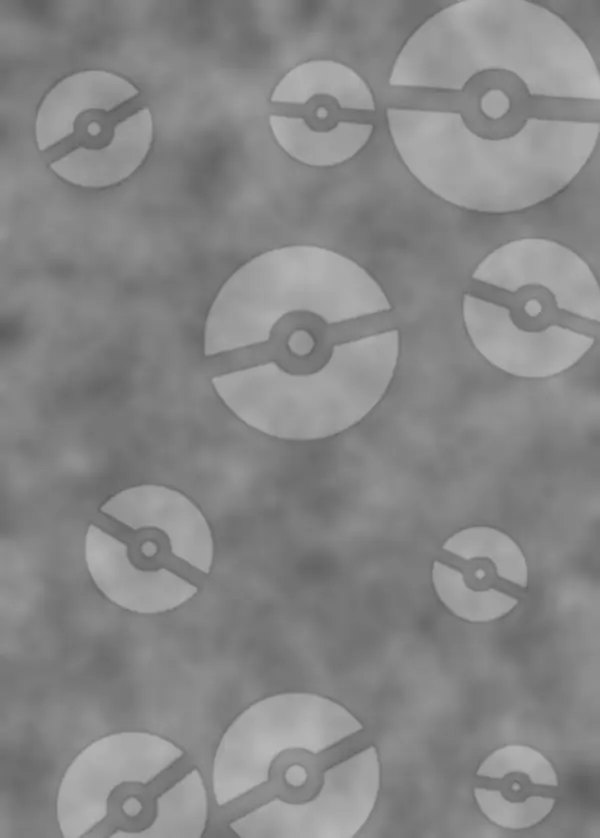
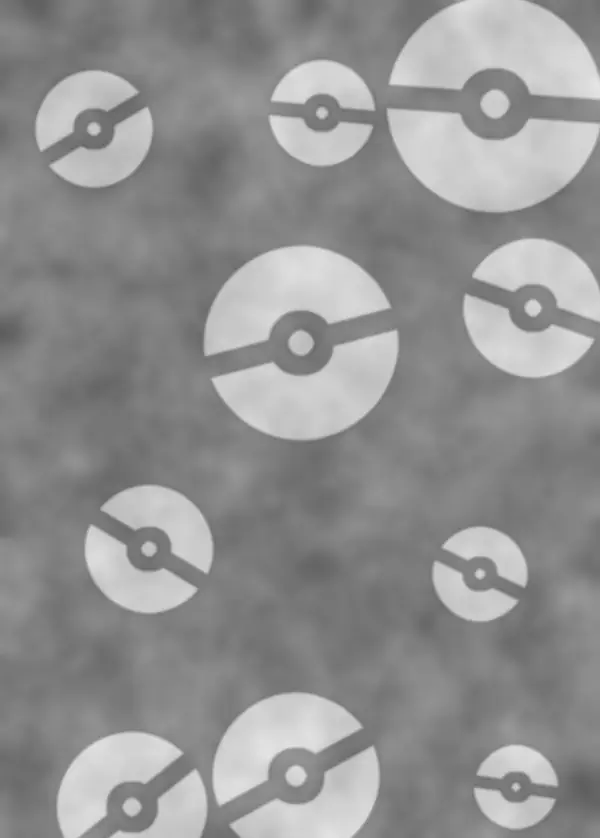
XY f1: holo fallback ids, reverse tiles tuned, dark-body symbol light

diff --git a/css/holo/xy.css b/css/holo/xy.css
@@ -152,16 +152,16 @@ body.fx-holo.fx-holo.fx-holo .tcg.era-xy.era-xy.era-xy.era-xy.era-xy.xy-starligh
 body.fx-holo.fx-holo.fx-holo .tcg.era-xy.era-xy.era-xy.era-xy.era-xy.foil-reverse.xy-rev .foil {
   background-image:
     var(--rev-pattern),
-    linear-gradient(-50deg, hsl(0, 0%, 10%) 20%, hsl(190, 80%, 70%) 34%, hsl(120, 70%, 70%) 42%, hsl(50, 90%, 72%) 50%, hsl(330, 80%, 72%) 58%, hsl(0, 0%, 10%) 74%),
-    radial-gradient(farthest-corner circle at var(--pointer-x) var(--pointer-y), hsl(0, 0%, 100%) 0%, hsl(0, 0%, 55%) 35%, hsl(0, 0%, 30%) 100%);
+    linear-gradient(-50deg, hsl(0, 0%, 62%) 14%, hsl(190, 80%, 82%) 32%, hsl(120, 70%, 80%) 42%, hsl(50, 90%, 84%) 50%, hsl(330, 80%, 84%) 58%, hsl(0, 0%, 62%) 78%),
+    radial-gradient(farthest-corner circle at var(--pointer-x) var(--pointer-y), hsl(0, 0%, 100%) 0%, hsl(0, 0%, 78%) 35%, hsl(0, 0%, 56%) 100%);
   background-size: 100% 100%, 260% 260%, 100% 100%;
   background-position:
     center,
     clamp(0%, calc(100% * var(--pointer-from-left)), 100%) clamp(0%, calc(100% * var(--pointer-from-top)), 100%),
     center;
   background-repeat: no-repeat;
-  background-blend-mode: multiply, screen, normal;
-  filter: brightness(0.62) contrast(1.35) saturate(1.2) contrast(0.8);
+  background-blend-mode: multiply, multiply, normal;
+  filter: brightness(1.05) contrast(2) saturate(1.2) contrast(0.8);
   mix-blend-mode: color-dodge;
   opacity: calc((0.45 + var(--card-opacity) * 0.55) * var(--foil-strength, 1));
   -webkit-mask-image: var(--art), var(--xy-win);
@@ -180,9 +180,18 @@ body.fx-holo.fx-holo.fx-holo .tcg.era-xy.era-xy.era-xy.era-xy.era-xy.foil-revers
 body.fx-holo.fx-holo.fx-holo .tcg.era-xy.era-xy.era-xy.era-xy.era-xy.foil-reverse.xy-rev:not(.lit):not(.settling) .foil {
   opacity: calc(0.42 * var(--foil-strength, 1));
 }
-body.fx-holo.fx-holo.fx-holo .tcg.era-xy.era-xy.era-xy.era-xy.era-xy.foil-reverse.xy-rev .foil::before,
-body.fx-holo.fx-holo.fx-holo .tcg.era-xy.era-xy.era-xy.era-xy.era-xy.foil-reverse.xy-rev .foil::after {
+body.fx-holo.fx-holo.fx-holo .tcg.era-xy.era-xy.era-xy.era-xy.era-xy.foil-reverse.xy-rev .foil::before {
   background-image: none;
+}
+/* A dark body (Darkness, Metal) is black to a colour-dodge: the symbols are screened on as light too. */
+body.fx-holo.fx-holo.fx-holo .tcg.era-xy.era-xy.era-xy.era-xy.era-xy.foil-reverse.xy-rev .foil::after {
+  background-image: var(--rev-pattern);
+  background-size: 100% 100%;
+  background-position: center;
+  background-repeat: no-repeat;
+  mix-blend-mode: screen;
+  filter: brightness(0.55) contrast(3.5);
+  opacity: calc(0.35 + var(--pointer-from-center) * 0.4);
 }
 /* Basic Energy: a full picture, foil from under the name bar to above the footer. */
 body.fx-holo.fx-holo.fx-holo .tcg.era-xy.era-xy.era-xy.era-xy.era-xy.foil-reverse.xy-rev-energy .foil {

diff --git a/js/xy-foil.js b/js/xy-foil.js
@@ -93,7 +93,7 @@ export function xyPattern(card) {
     case "Rare":
       // The plain Rare is not foil at all, except the 13 holo rares Evolutions
       // files as "Rare" (xyHoloPattern).
-      pattern = XY12_HOLO.has(card.id) ? xyHoloPattern(card) : "foil-none";
+      pattern = XY_HOLO_IDS.has(card.id) ? xyHoloPattern(card) : "foil-none";
       break;
     default:
       break;
@@ -123,8 +123,19 @@ export function xyReverseFinish(card) {
  * Pokémon included), not the cosmos of earlier eras; Evolutions (xy12) is the "Starlight" star field.
  */
 
-/** Evolutions files its 13 holo rares as "Rare" (pkmn.gg folds them); cardmavin and Collexy list these as Rare Holo. */
-const XY12_HOLO = new Set(["11", "15", "25", "34", "36", "38", "42", "45", "53", "59", "62", "63", "70"].map((n) => `xy12-${n}`));
+/**
+ * Holo rares the builders' data files as plain "Rare" (pkmn.gg folds them in xy4, xy5, xy11, xy12, dc1): the numbers
+ * pokemontcg.io lists as "Rare Holo" for those sets (xy12 agrees with cardmavin's list). Drop an entry once
+ * the data says "Rare Holo".
+ */
+const XY_HOLO_FALLBACK = {
+  xy4: "12 17 30 43 45 50 63 69 71 74 77 86 97 98",
+  xy5: "9 12 28 36 44 50 56 61 65 77 80 88 92 97 100 104 108 110",
+  xy11: "11 20 40 50 64 65 73 81 86",
+  xy12: "11 15 25 34 36 38 42 45 53 59 62 63 70",
+  dc1: "2 5 8 11 14 21"
+};
+const XY_HOLO_IDS = new Set(Object.entries(XY_HOLO_FALLBACK).flatMap(([set, nums]) => nums.split(" ").map((n) => `${set}-${n}`)));
 
 const isEvolutions = (card) => /^xy12-/.test(String(card?.id || ""));
 

diff --git a/index.html b/index.html
@@ -89,7 +89,7 @@
     <link rel="stylesheet" href="css/holo/sm-gx.css?v=5" />
     <link rel="stylesheet" href="css/holo/sm-fullart.css?v=4" />
     <link rel="stylesheet" href="css/holo/sm-shiny.css?v=3" />
-    <link rel="stylesheet" href="css/holo/xy.css?v=1" />
+    <link rel="stylesheet" href="css/holo/xy.css?v=2" />
     <link rel="stylesheet" href="css/holo/xy-ex.css?v=1" />
     <link rel="stylesheet" href="css/holo/xy-fullart.css?v=1" />
     <link rel="stylesheet" href="css/holo/sleeves.css?v=1" />

diff --git a/js/foil-maps.js b/js/foil-maps.js
@@ -24,7 +24,7 @@
 
 import { isSm, smGxMap, smPattern, smReverseFinish, smSafeMap, SM_FULL_ART, SM_ETCHED } from "./sm-foil.js?v=8";
 
-import { isXy, xyMap, xyPattern, xyReverseExtras, xyReverseFinish, XY_FULL_ART, XY_ETCHED } from "./xy-foil.js?v=1";
+import { isXy, xyMap, xyPattern, xyReverseExtras, xyReverseFinish, XY_FULL_ART, XY_ETCHED } from "./xy-foil.js?v=2";
 
 export { isSm, smPattern, isXy, xyPattern };
 

diff --git a/js/app.js b/js/app.js
@@ -1,5 +1,5 @@
 import { createCardMotion } from "./card-motion.js";
-import { foilExtras, isSm, isSwsh, isXy, smPattern, swshPattern, xyPattern } from "./foil-maps.js?v=11";
+import { foilExtras, isSm, isSwsh, isXy, smPattern, swshPattern, xyPattern } from "./foil-maps.js?v=12";
 import { initFx, tintFrom } from "./fx.js";
 import { PROFILE_PAGE_LIMIT } from "./profile-pages.js";
 import {

diff --git a/.claude/skills/card-textures/scripts/make_xy_reverse.py b/.claude/skills/card-textures/scripts/make_xy_reverse.py
@@ -221,7 +221,7 @@ def make_tile(kind: str) -> Image.Image:
     body = ndi.gaussian_filter(body, 1.0)
     # base mirror: broad mottle, never a fine grain
     mott = smooth_noise((H, W), 16, rng) * 0.03 + smooth_noise((H, W), 6, rng) * 0.012
-    grey = 0.50 + mott + body * 0.13 - line * 0.20
+    grey = 0.50 + mott + body * 0.30 - line * 0.34
     return Image.fromarray((np.clip(grey, 0, 1) * 255).astype(np.uint8), "L")
 
 
